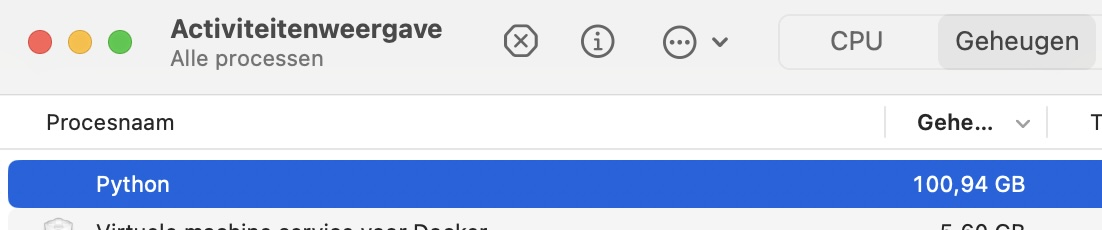
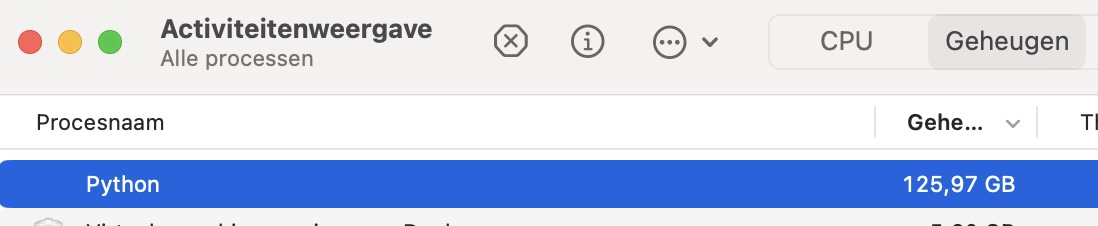
On memory usage.

diff --git a/README.md b/README.md
@@ -5,7 +5,7 @@ voxelme
 `git clone https://github.com/taatuut/voxelme.git`
 
 ## Context
-Hugo Koopmans https://www.linkedin.com/posts/gregcocks_gis-spatial-mapping-activity-7295959387251060737-H8bd?utm_source=share&utm_medium=member_desktop&rcm=ACoAAAA4JEABF_v0efkvHNqP4FjZ6u9WwQOTRVA
+Testing https://github.com/iosefa/PyForestScan after getting link to post https://www.linkedin.com/posts/gregcocks_gis-spatial-mapping-activity-7295959387251060737-H8bd from Hugo
 
 Developed on macOS.
 
@@ -49,16 +49,16 @@ python3 -m pip install pyforestscan
 
 ## Steps
 
-Download AHN5 data van [L1]
+Download AHN LAZ data van [L1]
 
 Test with example code from [L2]
 
 Run script `python3 ezlaz.py`
 
-Issues:
+### Issues
 - The output geotiff cannot be opened in macOS Preview, can *sometimes* with [L3] and *sometimes* see raster but *sometimes* problem and extents seem to small?
 - The script does visualize output with plot_metric, but this (matplotlib?) plot blocks script from further processing.
-
+- The process was automatically killed (because memory usage got too high with more than 120GB?) with message `zsh: killed     python3 ezlaz.py`. Could check if `codesign --sign - --force PATH_TO_YOUR_ISSUE_BINARY` solves this. For path check Python with `which python3`.
 ## Links
 
 [L1] https://www.ahn.nl/dataroom
